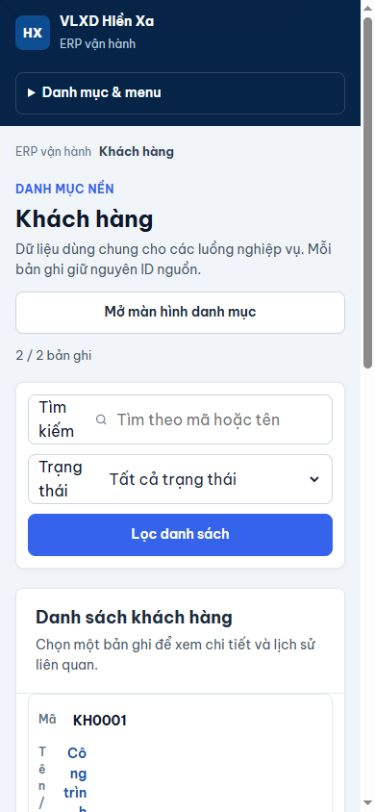
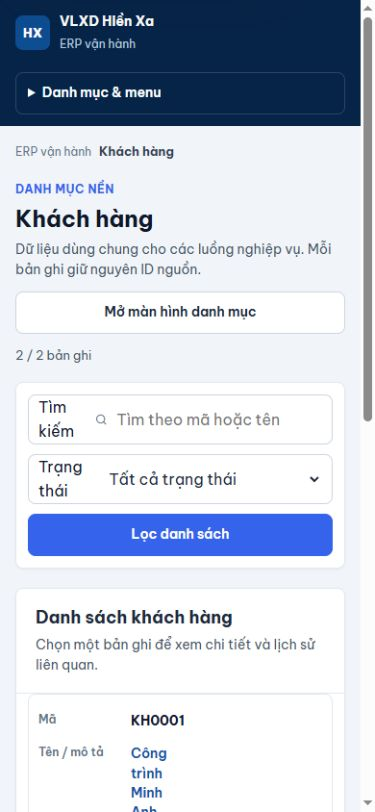
fix(ui): close phase3 responsive visual gaps

Changed region(s): [[0.088, 0.8621, 0.4987, 1.0], [0.968, 0.431, 0.9973, 0.5234]]

diff --git a/src/app/design-system.css b/src/app/design-system.css
@@ -627,6 +627,24 @@ button, input, select, textarea { font: inherit; }
 .erp-v2-tab-list { display: flex; gap: 22px; overflow-x: auto; padding: 0 20px; border-bottom: 1px solid var(--hx-gray-200); }
 .erp-v2-tab-list a { display: inline-flex; min-height: 48px; align-items: center; border-bottom: 2px solid transparent; color: var(--hx-gray-600); font-size: 14px; font-weight: 600; text-decoration: none; white-space: nowrap; }
 .erp-v2-tab-list a.is-active { border-bottom-color: var(--hx-primary); color: var(--hx-primary-dark); }
+.erp-v2-detail-tabs:has(.erp-v2-tab-panel:target) .erp-v2-tab-list a.is-active { border-bottom-color: transparent; color: var(--hx-gray-600); }
+.erp-v2-detail-tabs:has(.erp-v2-tab-panel#orders:target) .erp-v2-tab-list a[href="#orders"],
+.erp-v2-detail-tabs:has(.erp-v2-tab-panel#debt:target) .erp-v2-tab-list a[href="#debt"],
+.erp-v2-detail-tabs:has(.erp-v2-tab-panel#payments:target) .erp-v2-tab-list a[href="#payments"],
+.erp-v2-detail-tabs:has(.erp-v2-tab-panel#entries:target) .erp-v2-tab-list a[href="#entries"],
+.erp-v2-detail-tabs:has(.erp-v2-tab-panel#history:target) .erp-v2-tab-list a[href="#history"],
+.erp-v2-detail-tabs:has(.erp-v2-tab-panel#overview:target) .erp-v2-tab-list a[href="#overview"],
+.erp-v2-detail-tabs:has(.erp-v2-tab-panel#conversions:target) .erp-v2-tab-list a[href="#conversions"],
+.erp-v2-detail-tabs:has(.erp-v2-tab-panel#stock:target) .erp-v2-tab-list a[href="#stock"],
+.erp-v2-detail-tabs:has(.erp-v2-tab-panel#prices:target) .erp-v2-tab-list a[href="#prices"],
+.erp-v2-detail-tabs:has(.erp-v2-tab-panel#trade:target) .erp-v2-tab-list a[href="#trade"],
+.erp-v2-detail-tabs:has(.erp-v2-tab-panel#movements:target) .erp-v2-tab-list a[href="#movements"],
+.erp-v2-detail-tabs:has(.erp-v2-tab-panel#counts:target) .erp-v2-tab-list a[href="#counts"],
+.erp-v2-detail-tabs:has(.erp-v2-tab-panel#transfers:target) .erp-v2-tab-list a[href="#transfers"],
+.erp-v2-detail-tabs:has(.erp-v2-tab-panel#work:target) .erp-v2-tab-list a[href="#work"],
+.erp-v2-detail-tabs:has(.erp-v2-tab-panel#compensation:target) .erp-v2-tab-list a[href="#compensation"],
+.erp-v2-detail-tabs:has(.erp-v2-tab-panel#info:target) .erp-v2-tab-list a[href="#info"],
+.erp-v2-detail-tabs:has(.erp-v2-tab-panel#deliveries:target) .erp-v2-tab-list a[href="#deliveries"] { border-bottom-color: var(--hx-primary); color: var(--hx-primary-dark); }
 .erp-v2-tab-panel { display: none; padding: 20px; }
 .erp-v2-tab-panel.is-visible, .erp-v2-tab-panel:target { display: block; }
 .erp-v2-detail-tabs:has(.erp-v2-tab-panel:target) .erp-v2-tab-panel.is-visible:not(:target) { display: none; }
@@ -694,8 +712,10 @@ button, input, select, textarea { font: inherit; }
   .erp-v2-record-list thead, .erp-v2-record-list tbody, .erp-v2-record-list tr, .erp-v2-record-list td { display: block; }
   .erp-v2-record-list thead { position: absolute; width: 1px; height: 1px; overflow: hidden; clip: rect(0 0 0 0); }
   .erp-v2-record-list tr { margin: 0 12px 10px; padding: 10px; border: 1px solid var(--hx-gray-200); border-radius: var(--hx-radius-md); }
-  .erp-v2-record-list td { display: flex; justify-content: space-between; gap: 12px; padding: 7px 0; border: 0; text-align: right; }
-  .erp-v2-record-list td::before { color: var(--hx-gray-500); content: attr(data-label); font-size: 12px; font-weight: 600; text-align: left; }
+  .erp-v2-record-list td { display: flex; min-width: 0; justify-content: space-between; gap: 12px; padding: 7px 0; border: 0; text-align: right; }
+  .erp-v2-record-list td::before { flex: 0 0 84px; color: var(--hx-gray-500); content: attr(data-label); font-size: 12px; font-weight: 600; text-align: left; }
+  .erp-v2-record-list td > * { min-width: 0; flex: 1 1 auto; text-align: right; overflow-wrap: anywhere; }
+  .erp-v2-record-list td > .erp-v2-record-link { display: block; flex: 1 1 0; min-width: 0; overflow-wrap: normal; word-break: normal; white-space: normal; }
   .erp-v2-detail-fields { grid-template-columns: 1fr; }
   .erp-v2-summary-grid { grid-template-columns: 1fr 1fr; padding: 14px 16px 16px; }
   .erp-v2-tab-list { gap: 16px; padding-inline: 16px; }

diff --git a/tests/phase3-ui-routes.test.ts b/tests/phase3-ui-routes.test.ts
@@ -15,10 +15,19 @@ describe("ERP V2 Phase 3 catalog route contract", () => {
 
   it("keeps every detail route behind the shared server-side catalog guard", () => {
     for (const kind of kinds) {
+      const listSource = readFileSync(resolve(root, `src/app/catalog/${kind}/page.tsx`), "utf8");
       const source = readFileSync(resolve(root, `src/app/catalog/${kind}/[id]/page.tsx`), "utf8");
+      expect(listSource).toContain("requireCatalogAccess");
       expect(source).toContain("requireCatalogAccess");
       expect(source).toContain("findCatalogRecord");
     }
+  });
+
+  it("keeps mobile record cards and fragment tabs readable", () => {
+    const css = readFileSync(resolve(root, "src/app/design-system.css"), "utf8");
+    expect(css).toContain(".erp-v2-record-list td > .erp-v2-record-link");
+    expect(css).toContain("overflow-wrap: normal");
+    expect(css).toContain(".erp-v2-detail-tabs:has(.erp-v2-tab-panel#conversions:target)");
   });
 
   it("keeps the route map additive and dashboard chart data model authoritative", () => {

diff --git a/docs/erp-v2-remediation/07-visual-fidelity.md b/docs/erp-v2-remediation/07-visual-fidelity.md
@@ -6,40 +6,46 @@ That mode is required only for the local file backend; no production or UAT
 data was touched. Screenshots are actual rendered Browser captures, not build
 or source substitutes.
 
-The first pass found a mobile horizontal overflow caused by the legacy global
-`table { min-width: 640px; }` rule. The Phase 3 record-card override now sets
-`min-width: 0` and all target screens measure `scrollWidth <= innerWidth`.
-The catalog table header was also reset to the locked slate surface instead of
-the legacy green header.
+The first pass found two real issues: the legacy global `table { min-width:
+640px; }` rule caused mobile viewport overflow, and the legacy green table
+header diverged from the locked slate token. A second pass found mobile record
+cards breaking Vietnamese names one character at a time and detail-tab
+selection showing the wrong active underline. The Phase 3 CSS now resets
+mobile table sizing, gives card labels/value columns stable flex sizing,
+restores the slate header, and makes URL-fragment tabs visually follow the
+selected panel.
 
 | SCREEN | VIEWPORT | SCREENSHOT PATH | RESULT | ISSUES | FIX COMMIT |
 |---|---|---|---|---|---|
-| Dashboard | 1440x900 | `screenshots/dashboard-1440x900.png` | PASS | none | Phase 3 UI commit |
-| Catalog list | 1440x900 | `screenshots/catalog-customers-1440x900.png` | PASS | none | Phase 3 UI commit |
-| Customer detail | 1440x900 | `screenshots/catalog-customers-cus-minh-anh-1440x900.png` | PASS | none | Phase 3 UI commit |
-| Dashboard | 1366x768 | `screenshots/dashboard-1366x768.png` | PASS | none | Phase 3 UI commit |
-| Catalog list | 1366x768 | `screenshots/catalog-customers-1366x768.png` | PASS | none | Phase 3 UI commit |
-| Customer detail | 1366x768 | `screenshots/catalog-customers-cus-minh-anh-1366x768.png` | PASS | none | Phase 3 UI commit |
-| Dashboard | 1024x768 | `screenshots/dashboard-1024x768.png` | PASS | none | Phase 3 UI commit |
-| Catalog list | 1024x768 | `screenshots/catalog-customers-1024x768.png` | PASS | none | Phase 3 UI commit |
-| Customer detail | 1024x768 | `screenshots/catalog-customers-cus-minh-anh-1024x768.png` | PASS | none | Phase 3 UI commit |
-| Dashboard | 390x844 | `screenshots/dashboard-390x844.png` | PASS | no horizontal overflow | Phase 3 UI commit |
-| Catalog list | 390x844 | `screenshots/catalog-customers-390x844.png` | PASS | no horizontal overflow; cards used | Phase 3 UI commit |
-| Customer detail | 390x844 | `screenshots/catalog-customers-cus-minh-anh-390x844.png` | PASS | single-column profile/summary | Phase 3 UI commit |
-| Dashboard | 375x812 | `screenshots/dashboard-375x812.png` | PASS | no horizontal overflow | Phase 3 UI commit |
-| Catalog list | 375x812 | `screenshots/catalog-customers-375x812.png` | PASS | no horizontal overflow; cards used | Phase 3 UI commit |
-| Customer detail | 375x812 | `screenshots/catalog-customers-cus-minh-anh-375x812.png` | PASS | single-column profile/summary | Phase 3 UI commit |
-| Dashboard | 360x800 | `screenshots/dashboard-360x800.png` | PASS | no horizontal overflow | Phase 3 UI commit |
-| Catalog list | 360x800 | `screenshots/catalog-customers-360x800.png` | PASS | no horizontal overflow; cards used | Phase 3 UI commit |
-| Customer detail | 360x800 | `screenshots/catalog-customers-cus-minh-anh-360x800.png` | PASS | single-column profile/summary | Phase 3 UI commit |
+| Dashboard | 1440x900, 1366x768, 1024x768, 390x844, 375x812, 360x800 | `screenshots/dashboard-{1440x900,1366x768,1024x768,390x844,375x812,360x800}.png` | PASS | none; no viewport overflow | `263b589`, `679d35b` |
+| Customer list/detail | all six required viewports | `screenshots/catalog-customers-*` and `screenshots/catalog-customers-cus-minh-anh-*` | PASS | mobile cards readable; no viewport overflow | `263b589`, `679d35b` |
+| Supplier list/detail | 1440x900, 390x844 | `screenshots/catalog-suppliers-1440x900.png`, `catalog-suppliers-390x844.png`, `catalog-suppliers-sup-hoang-thach-1440x900.png`, `catalog-suppliers-sup-hoang-thach-390x844.png` | PASS | no clipping; mobile cards readable | `263b589`, `679d35b` |
+| Product list/detail | 1440x900, 390x844 | `screenshots/catalog-products-1440x900.png`, `catalog-products-390x844.png`, `catalog-products-pu-cement-bag-1440x900.png`, `catalog-products-pu-cement-bag-390x844.png` | PASS | no clipping; unit labels readable | `263b589`, `679d35b` |
+| Product unit conversion tab | 1440x900, 390x844 | `screenshots/catalog-products-pu-cement-bag-conversions-1440x900.png`, `catalog-products-pu-cement-bag-conversions-390x844.png` | PASS | URL-fragment tab active state and empty state verified | `263b589`, `679d35b` |
+| Warehouse list/detail | 1440x900, 390x844 | `screenshots/catalog-warehouses-1440x900.png`, `catalog-warehouses-390x844.png`, `catalog-warehouses-wh-main-1440x900.png`, `catalog-warehouses-wh-main-390x844.png` | PASS | no clipping; derived stock remains read-only | `263b589`, `679d35b` |
+| Vehicle list/detail | 1440x900, 390x844 | `screenshots/catalog-vehicles-1440x900.png`, `catalog-vehicles-390x844.png`, `catalog-vehicles-vehicle-truck-01-1440x900.png`, `catalog-vehicles-vehicle-truck-01-390x844.png` | PASS | no clipping; no fabricated telemetry | `263b589`, `679d35b` |
+| Employee list/detail | 1440x900, 390x844 | `screenshots/catalog-employees-1440x900.png`, `catalog-employees-390x844.png`, `catalog-employees-emp-driver-dung-1440x900.png`, `catalog-employees-emp-driver-dung-390x844.png` | PASS | no clipping; payable remains read-only | `263b589`, `679d35b` |
+| Desktop shell/navigation | covered by every desktop catalog/dashboard capture | deep-navy sidebar, grouped navigation, active module, white/slate workspace | PASS | none | `263b589`, `679d35b` |
+
+## Responsive measurements
+
+The Browser viewport checks measured `overflow=false` for every Phase 3 catalog
+list/detail route at 1440x900 and 390x844. The dashboard and customer list/detail
+also passed the remaining required viewports (1366x768, 1024x768, 375x812,
+360x800). Mobile navigation opens the grouped `Danh mục & menu` disclosure;
+detail tabs use URL fragments and scroll horizontally rather than compressing
+into the viewport.
 
 ## Interaction/state evidence
 
-- The mobile `Danh mục & menu` disclosure opens the full grouped navigation;
-  it is a real keyboard-accessible drawer surface, not a hidden desktop menu.
 - List search and status controls retain their values through URL query
   parameters.
-- Customer detail tabs use URL fragments, back/forward navigation, horizontal
-  scrolling on mobile, and explicit empty states when a source has no rows.
+- Product detail tab navigation was exercised in Browser: clicking `Quy đổi
+  đơn vị` changed the URL to `#conversions`, showed only the conversion panel,
+  and browser back restored the overview URL/panel.
+- Missing catalog IDs render the repository not-found state.
 - The dashboard captures the current empty revenue/cash period honestly; it
   does not add demo values to improve the screenshot.
+
+`VISUAL_SCREENSHOTS=40`
+`R-027=PASS`

diff --git a/docs/erp-v2-remediation/10-phase3-gate-d-result.md b/docs/erp-v2-remediation/10-phase3-gate-d-result.md
@@ -31,7 +31,7 @@ PHASE3_GATE_D=PASS
 | Typecheck | `npm.cmd run typecheck` | PASS |
 | Build | `npm.cmd run build` | PASS — 58 routes |
 | Lint | `npm.cmd pkg get scripts.lint` | NOT CONFIGURED — no lint script |
-| Browser visual QA | Codex In-app Browser, local owner fixture | PASS — 18 actual screenshots; no horizontal overflow |
+| Browser visual QA | Codex In-app Browser, local owner fixture | PASS — 40 actual screenshots covering dashboard plus all six catalog families, including product unit conversion; no horizontal overflow |
 
 The explicitly guarded staging integration and Cloudflare UAT suites remain
 blocked because their dedicated confirmation variables are absent. The
@@ -39,6 +39,11 @@ repository Playwright CLI also remains unavailable because the Chromium
 headless executable is not installed. Those environment gates do not replace
 the completed Browser visual evidence and do not change the core unit result;
 they keep `RELEASE_READY=NO`.
+
+The visual follow-up pass fixed the mobile record-card label/value wrapping and
+fragment-tab active-state indication found while expanding evidence to all
+catalog families. The corrected CSS and expanded screenshot set are part of
+the Phase 3 follow-up checkpoint.
 
 ## Scope boundary
 
